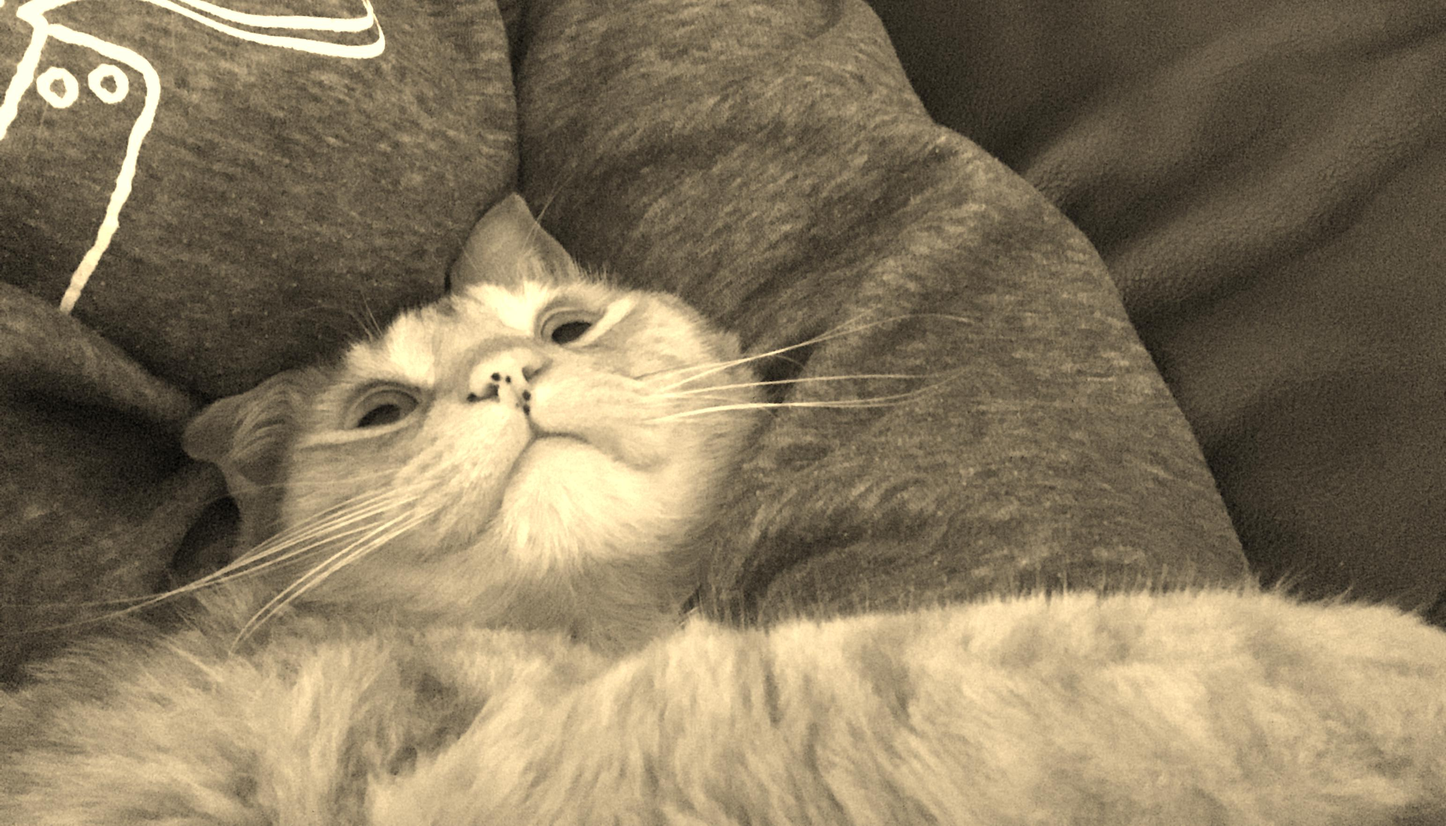
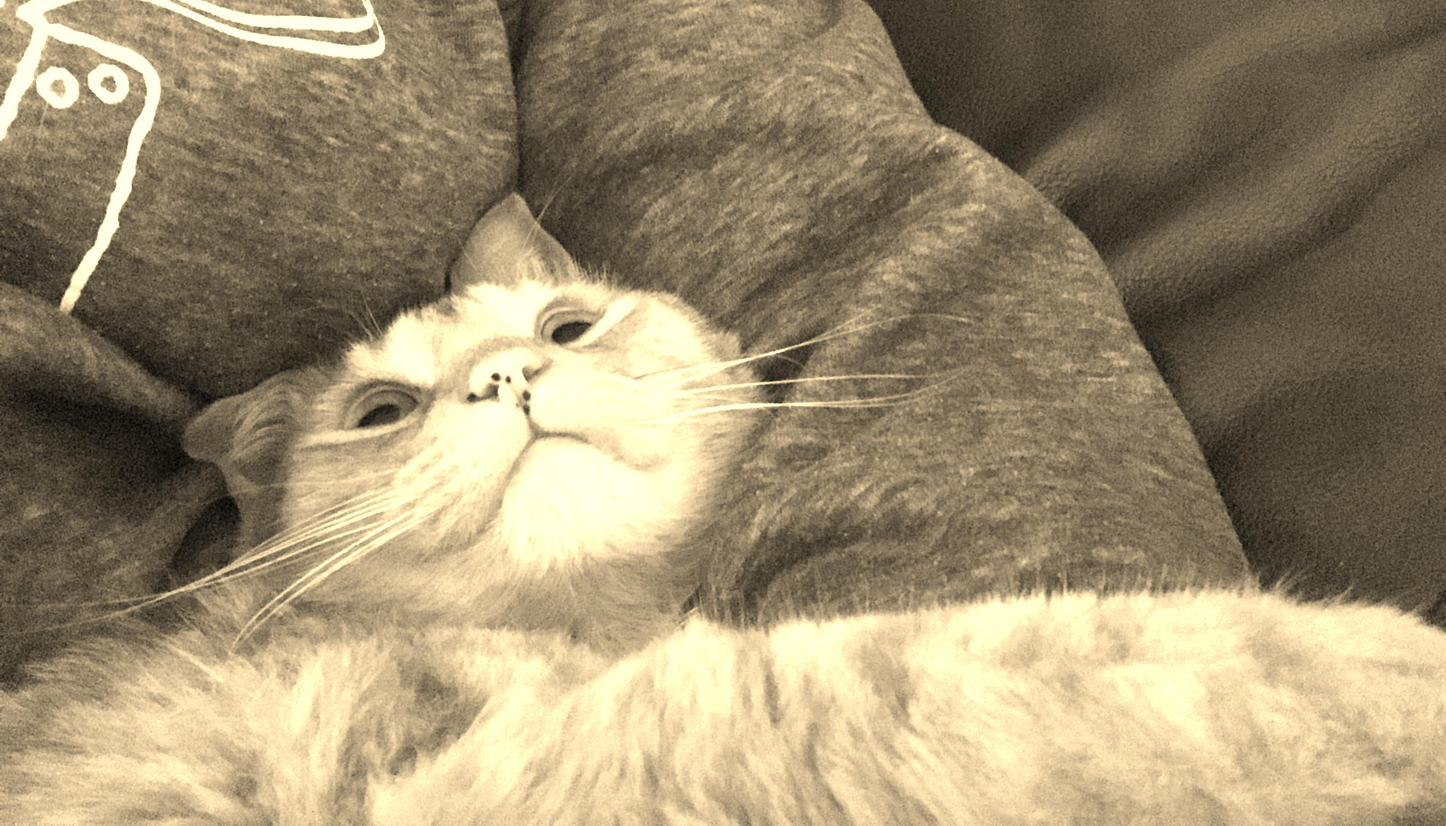
added sepia and color merge routes and api call ver

diff --git a/pixly-frontend/src/api.js b/pixly-frontend/src/api.js
@@ -23,10 +23,8 @@ class PixlyApi {
     const params = (method === "get")
         ? data
         : {};
-    console.log("DATA", data)
     try {
       let res = await axios({ url, method, data, params, headers }); // removed headers
-      console.log("RESPONSE", res);
       return res;
     } catch (err) {
       console.error("API Error:", err.response);
@@ -54,8 +52,21 @@ class PixlyApi {
   /** Black and White Image */
 
   static async blackWhiteImage(link) {
-    console.log("API BWIMAGE LINK", link)
-    let res = await this.request("image", link, "post");
+    let res = await this.request("image/bw", link, "post");
+    return res;
+
+  }
+  /** Black and White Image */
+
+  static async sepiaImage(link) {
+    let res = await this.request("image/sepia", link, "post");
+    return res;
+
+  }
+  /** Black and White Image */
+
+  static async colorMergeImage(link) {
+    let res = await this.request("image/merge", link, "post");
     return res;
 
   }

diff --git a/pixly-frontend/src/App.js b/pixly-frontend/src/App.js
@@ -23,11 +23,8 @@ function App() {
     }
 
     async function blackWhiteImage() {
-      console.log("INSI BLACKWHITE IMAGE FUNCTION", link);
       const response = await PixlyApi.blackWhiteImage(link);
-      console.log("BW IMAGE RESPONSE", response.data)
       setBwLink(response.data)
-      console.log("BWLINK", bwLink)
     }
     
   

diff --git a/pixly-backend/app.py b/pixly-backend/app.py
@@ -9,7 +9,7 @@ from flask_debugtoolbar import DebugToolbarExtension
 from models import db, connect_db, Pixly
 # from secret import ACCESS_KEY, SECRET_KEY
 from config import S3_BUCKET, S3_KEY, S3_LOCATION, S3_SECRET
-from helpers import s3, upload_file_to_s3, allowed_file, convert_to_black_and_white, fetch_image_file_from_bucket, upload_backend_file_to_s3
+from helpers import s3, upload_file_to_s3, allowed_file, convert_to_black_and_white, fetch_image_file_from_bucket, upload_backend_file_to_s3, convert_sepia, convert_to_color_merge
 from werkzeug.utils import secure_filename 
 
 app = Flask(__name__)
@@ -53,19 +53,36 @@ db.create_all()
 #     new_img = ImageOps.expand(im, border=border, fill=color)
 #     return new_img
 
-@app.route("/image", methods=["POST"])
+@app.route("/image/bw", methods=["POST"])
 def back_and_white_image():
     """TODO: docstrings"""
     print("REQUEST DATA", request.data.decode("UTF-8"))
     link = request.data.decode("UTF-8")
     image_path = fetch_image_file_from_bucket(link)
-    print("AFTER IMAGE PATH", image_path)
     convert_to_black_and_white(image_path)
-    print("AFTER CONVERTTO BW")
     bw_link = upload_backend_file_to_s3(image_path, S3_BUCKET)
-    print("AFTER UPLOAD BW IMAGE", bw_link)
     os.remove(image_path)
     return str(bw_link)
+
+@app.route("/image/sepia", methods=["POST"])
+def sepia_image():
+    """TODO: docstrings"""
+    link = request.data.decode("UTF-8")
+    image_path = fetch_image_file_from_bucket(link)
+    convert_sepia(image_path)
+    sepia_link = upload_backend_file_to_s3(image_path, S3_BUCKET)
+    os.remove(image_path)
+    return str(sepia_link)
+
+@app.route("/image/merge", methods=["POST"])
+def color_merge_image():
+    """TODO: docstrings"""
+    link = request.data.decode("UTF-8")
+    image_path = fetch_image_file_from_bucket(link)
+    convert_to_color_merge(image_path)
+    color_merge_link = upload_backend_file_to_s3(image_path, S3_BUCKET)
+    os.remove(image_path)
+    return str(color_merge_link)
 
 @app.route("/", methods=["POST"])
 @cross_origin()

diff --git a/pixly-backend/helpers.py b/pixly-backend/helpers.py
@@ -158,10 +158,7 @@ def convert_sepia(imagePath):
 # COLOR MERGE
 
 def convert_to_color_merge(imagePath):
-    image = Image.open(imagePath)
-    print(image, "IMAGE FROM COLOR MERGE")
-    image2 = Image.open(imagePath).convert("RGB")
-    print(image2, "IMAGE2 FROM COLOR MER")
-    red, green, blue = image2.split()
+    image = Image.open(imagePath).convert("RGB")
+    red, green, blue = image.split()
     new_image = Image.merge("RGB", (green, red, blue))
     new_image.save(imagePath)
